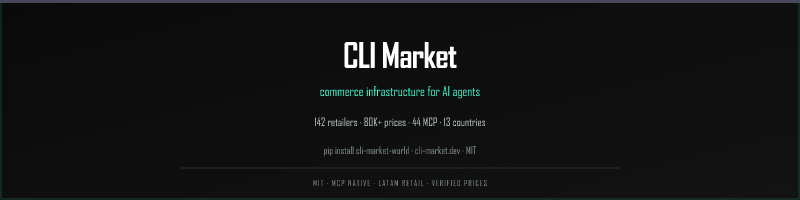
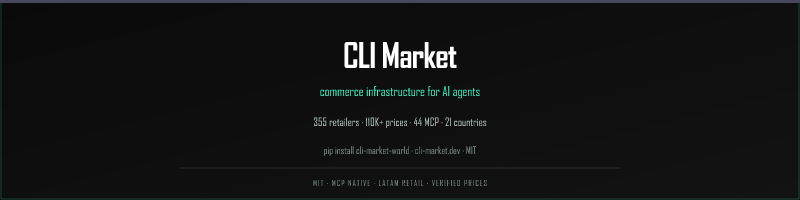
chore(stats): sync retailer/country stats to 355 stores / 21 countries; fix MS_COUNTRIES len() bug
Ran ops/sync_market_stats.py against the sibling cli-market-core
checkout (now at 1.11.83, 355 verified retailers across 21 countries
after this session's organic/leather-goods store batches) to
regenerate marketStats.ts, README, server.json, mcp.json, pyproject.toml
description, social preview assets, and the LinkedIn/HN content
templates that embed these numbers.

Also fixed a real bug surfaced while running the e2e flow after the
sync: market_cli.py's welcome_banner() called len(MS_COUNTRIES), but
market_stats.COUNTRIES is already an int (a count), not a list --
`len()` on it threw TypeError. The other three MS_COUNTRIES call sites
in this file already used it correctly as an int; this was the only
stale len() call, likely predating the point where COUNTRIES became a
scalar. Confirmed fixed by running e2e_test.py's welcome_banner() path
directly.

requirements.txt: bump cli-market-core pin from 1.11.76 to 1.11.83 to
match what's now on PyPI (also carries the STORES re-export fix from
that release).

Changed region(s): [[0.375, 0.57, 0.625, 0.63]]

diff --git a/landing/lib/marketStats.ts b/landing/lib/marketStats.ts
@@ -1,31 +1,31 @@
 // AUTO-GENERATED — do not edit. Run: python3 ops/sync_market_stats.py
 
 export const MARKET_STATS = {
-  retailersDefined: 142,
-  retailersVerified: 99,
+  retailersDefined: 355,
+  retailersVerified: 320,
   platforms: 4,
-  platformVtex: 69,
-  platformShopify: 31,
+  platformVtex: 78,
+  platformShopify: 145,
   platformMagento: 4,
-  platformWooCommerce: 12,
-  woocommerceStores: ["Almendariz", "Alore", "De Todo Vegano", "Ecotienda", "Edipesa", "FBK Per\u00fa", "Ferrincorp", "Igardi", "MKE Industria", "Nuna Org\u00e1nica", "Smart Nutrition", "Sol y Dar Per\u00fa"],
-  countries: 13,
-  countryCodes: ['AR', 'BR', 'CL', 'CO', 'DE', 'EC', 'ES', 'FR', 'GB', 'IT', 'MX', 'PE', 'US'],
+  platformWooCommerce: 98,
+  woocommerceStores: ["100% Argentino", "Ainhoa", "Almendariz", "Alore", "Bell Tower Spain", "Bio-Market", "Bio auf Vorrat", "Bioclean Colombia", "Biocleanse", "Biocueros", "Biomarket", "B\u00f6gi Natural", "B\u00f6r Piezas Org\u00e1nicas", "Botania", "Botanikalia", "Bottega Vera Pelle", "Cambio Verde", "Casa M\u00e1rquez", "Come de la Huerta", "Violeta Org\u00e1nica", "Cosm\u00e9tica Natural", "Cuero Market", "Cuero Por\u00e3 Atyr\u00e1", "Cueros Colombia", "Cuirs Ciulli", "Curtiembre Quisapincha", "Curtisur", "Del Campo a tu Casa", "Detergente Naturale", "De Todo Vegano", "Due Lune", "Ecometas", "Ecomondo", "Ecotienda", "Edipesa", "Einsbledt", "El Banquito", "Faugier France", "FBK Per\u00fa", "Ferrincorp", "Fieito", "Fleur de Coton Bio", "Granja Org\u00e1nica Budi", "Grintek Corp (Mayorista)", "Grintek", "Haku Handmade", "Herbolario Bio", "Igardi", "Insumos al Peso", "Jabones Gaia", "Jalea Real", "KLOK.eco", "LederLager24", "Libra Organic", "Mia Cueros", "Midor", "Mirtilla Bio", "M\u00edtica", "MKE Industria", "Natura EC", "Naturalem", "Natureba", "Naturetica", "Nua Per\u00fa", "Nuna Org\u00e1nica", "Officine Toscane", "Van Oosterum Leder", "Org\u00e1nicos de mi Tierra", "Organic Well", "Pellami Esposito", "Piel Arena", "Pieles Conac", "Pieles Vel\u00e1squez", "PrimoBio", "QARA Leather", "Reinigungsplanet", "Riemenmeister", "Roots Cosm\u00e9tica Natural", "Rovier", "Scarpe di Maremma", "Seiva Paraguay", "Simple y Natural", "Smart Nutrition", "Solid\u00e9", "Sol y Dar Per\u00fa", "Stuivenga Lederwaren", "Te Quiero Verde", "Terra Premium Market", "Tierra Inc\u00f3gnita", "Tribu", "Valorable", "VEOVEO", "Vera Pelle", "Vida Org\u00e1nica", "VM Global Store", "We Can Company", "Wisqa Per\u00fa", "Wunschleder"],
+  countries: 21,
+  countryCodes: ['AR', 'BO', 'BR', 'CA', 'CL', 'CO', 'CR', 'DE', 'EC', 'ES', 'FR', 'GB', 'GT', 'IT', 'MX', 'NL', 'PA', 'PE', 'PY', 'US', 'UY'],
   mcpTools: 44,
   mcpToolsLegacy: 69,
   mcpToolsFull: 66,
   mcpDefaultProfile: "default",
-  mcpBundles: {"shop": [{"id": "market_discover", "description": "Retail coverage in one call: business lines, retailers, and countries. Replaces market_lines + market_stores + market_countries. 99 verified retailers across 13 countries.", "canonical": true}, {"id": "market_optimize_purchase", "description": "One-call purchase optimization: basket compare, TCO, substitutes, intel, and action links. Replaces fragmented search → compare → intel for agents.", "canonical": true}, {"id": "market_add", "description": "Add to cart. Copy ALL four fields from market_search: product_id, name, price, store (use store_key value as store). Missing fields cause 422 — re-run market_search if needed.", "canonical": false}, {"id": "market_ask", "description": "Natural-language shopping. Examples: 'buy milk', 'repeat last purchase', 'compare rice'.", "canonical": false}, {"id": "market_basket", "description": "Compare total basket cost across retailers. Pass items with name and qty. Returns per-store totals and cheapest retailer. LATAM differentiator — 99 verified retailers across 13 countries.", "canonical": false}, {"id": "market_cart", "description": "View current cart with products, quantities, prices, and total.", "canonical": false}, {"id": "market_cart_update", "description": "Change item quantity in cart. Use quantity=0 to remove (replaces market_cart_remove in PR2).", "canonical": false}, {"id": "market_checkout", "description": "Pay for cart via CLI Market (Yape/Plin/PayPal) — creates internal order, not checkout on retailer sites. Requires Pro tier for live charge. payment_method: yape, plin, paypal, tarjeta. See GET /v1/capabilities.", "canonical": false}, {"id": "market_compare", "description": "Compare prices for one query across retailers side-by-side. Use when the user asks for cheapest option or cross-store comparison. Set country (e.g. PE) or store to avoid timeouts.", "canonical": false}, {"id": "market_login", "description": "Authenticate in CLI Market. Call before cart, checkout, or orders. Returns access + refresh tokens (access default 90d, refresh 365d) persisted locally. On 401 with expired access, CLI auto-calls POST /auth/refresh; agents may re-login or refresh.", "canonical": false}, {"id": "market_orders", "description": "Order history. Set reorder_last=true to repeat the last order.", "canonical": false}, {"id": "market_search", "description": "Search products across 99 verified retailers across 13 countries. Returns JSON with product_id, name, price, store_key (required for market_add), store, and line. Filter by line or store ID. Prefer this over scraping.", "canonical": false}, {"id": "market_substitutes", "description": "Product substitutes with unit-normalized savings and Nutri-Score tradeoffs. Use when exact SKU unavailable or optimizing basket.", "canonical": false}], "intel": [{"id": "market_intel_brief", "description": "One-call intelligence narrative: shelf signals, macro gap vs official CPI, composite scores, and moat confidence. Replaces indicators + analytics + enrichment reads.", "canonical": true}, {"id": "index_lookup", "description": "Fetch a canonical Golden Record by its prod_* id — the unified product identity across all retailers carrying it.", "canonical": false}, {"id": "index_resolve", "description": "Resolve a raw retailer snapshot (name/brand/store/sku) to its canonical Golden Record (prod_* id) via the semantic index — entity resolution across retailers for the same physical product.", "canonical": false}, {"id": "index_stats", "description": "Semantic index health — registry size and snapshot-to-Golden-Record linkage coverage.", "canonical": false}, {"id": "market_affordability", "description": "Affordability OS — canasta pressure, wage ratio, macro gap, regulatory headlines. One-call cost-of-living composite for LATAM.", "canonical": false}, {"id": "market_arbitrage", "description": "Cross-border shelf-price arbitrage — buy-country vs. sell-country spread in USD for a product across LatAm. Requires product or canonical_id (at least one). Shelf prices only; does NOT account for import duties, freight, or FX volatility between the compared snapshots.", "canonical": false}, {"id": "market_basket_stress", "description": "Minimum canasta básica stress index for a country — cheapest indexed staple per item vs. a 100-baseline. NOT official CPI; a shelf-price-only proxy.", "canonical": false}, {"id": "market_commerce_pulse", "description": "Agentic Commerce Pulse — weekly research report synthesized from moat signals (inflation, basket stress, promo activity, retailer coverage). JSON or markdown.", "canonical": false}, {"id": "market_ecosystem_traction", "description": "Public adoption telemetry — monthly active agents, retention, top agent types. No PII. Proof-of-traction signal for partner/press conversations, not a revenue or GMV figure.", "canonical": false}, {"id": "market_export", "description": "Export data moat as CSV or JSON. Requires starter tier or above.", "canonical": false}, {"id": "market_gov_observations", "description": "Official government price/macro observations (currently BCRP: USD/PEN exchange rate, Lima IPC) — independent of CLI Market's own shelf-price signal, for validating the Macro Gap (shelf vs official CPI) with real data instead of a shelf-only proxy.", "canonical": false}, {"id": "market_inflation", "description": "Shelf inflation from the data moat: price deltas and average inflation. Filter by country or line.", "canonical": false}, {"id": "market_inflation_report", "description": "Inflation Intelligence — where is price pressure increasing? Returns pressure level (stable/rising/rising_fast/falling/above_official) from internal shelf inflation and macro CPI gap.", "canonical": false}, {"id": "market_informal_signal", "description": "Coverage-honesty flag for informal retail channels. Reports how confident our formal-channel (VTEX/Shopify/Magento/WooCommerce) coverage is for a country/line — does NOT estimate informal-economy share (ferias, mercados de abastos, venta ambulante are not observed). Use to avoid mistaking low signal for low informal activity.", "canonical": false}, {"id": "market_price_forecast", "description": "Price forecast from price_history for one product — trend + confidence band over a horizon. Requires enough historical snapshots; sparse products return low confidence rather than a fabricated trend.", "canonical": false}, {"id": "market_price_history", "description": "Price history for a product in the data moat. Pairs with market_inflation and market_trending.", "canonical": false}, {"id": "market_price_risk", "description": "Price Risk Intelligence — which categories are becoming volatile? Returns risk level (low/moderate/high) with supporting signals from price dispersion, promo intensity, and staple momentum.", "canonical": false}, {"id": "market_procurement_signal", "description": "Procurement Intelligence — when should I buy? Returns buy_now/monitor/wait signal from basket stress, search momentum, and staple price trends.", "canonical": false}, {"id": "market_promo_detector", "description": "Promo authenticity — flags discounts staged by inflating list_price shortly before advertising a markdown against it (common LatAm retail pattern). Uses price_history to compare recent list_price moves vs. prior stable value. Does NOT evaluate package size or content changes (shrinkflation) — that requires data not currently captured.", "canonical": false}, {"id": "market_retailer_scorecard", "description": "Retailer scorecard — coverage/freshness, catalog quality, and price volatility for one store in a single call. Does NOT include cross-store price competitiveness or stock availability — neither has a reliable per-retailer signal in the data moat today.", "canonical": false}, {"id": "market_scores", "description": "Composite moat scores: retail_aggression, price_fairness, basket_stress, data_confidence, macro_alignment.", "canonical": false}, {"id": "market_stats", "description": "Data moat health: total prices, active stores, tracked products, last refresh.", "canonical": false}, {"id": "market_trending", "description": "Products with largest price movement in the last 7 days.", "canonical": false}], "account": [{"id": "market_price_alerts", "description": "Price alerts: query drops or configure threshold notifications for a product.", "canonical": true}, {"id": "market_favorites", "description": "Manage favorite products: list, add, or remove. Omit action for list.", "canonical": false}, {"id": "market_household_get", "description": "Household profile: budget, restrictions, staple list, default stores.", "canonical": false}, {"id": "market_household_update", "description": "Create or update household profile (budget, restrictions, staples).", "canonical": false}, {"id": "market_subscription", "description": "Current subscription plan: tier, rate limits, available API keys.", "canonical": false}, {"id": "market_whoami", "description": "Verify identity: username and subscription tier for the authenticated user.", "canonical": false}]},
+  mcpBundles: {"shop": [{"id": "market_discover", "description": "Retail coverage in one call: business lines, retailers, and countries. Replaces market_lines + market_stores + market_countries. 320 verified retailers across 21 countries.", "canonical": true}, {"id": "market_optimize_purchase", "description": "One-call purchase optimization: basket compare, TCO, substitutes, intel, and action links. Replaces fragmented search → compare → intel for agents.", "canonical": true}, {"id": "market_add", "description": "Add to cart. Copy ALL four fields from market_search: product_id, name, price, store (use store_key value as store). Missing fields cause 422 — re-run market_search if needed.", "canonical": false}, {"id": "market_ask", "description": "Natural-language shopping. Examples: 'buy milk', 'repeat last purchase', 'compare rice'.", "canonical": false}, {"id": "market_basket", "description": "Compare total basket cost across retailers. Pass items with name and qty. Returns per-store totals and cheapest retailer. LATAM differentiator — 320 verified retailers across 21 countries.", "canonical": false}, {"id": "market_cart", "description": "View current cart with products, quantities, prices, and total.", "canonical": false}, {"id": "market_cart_update", "description": "Change item quantity in cart. Use quantity=0 to remove (replaces market_cart_remove in PR2).", "canonical": false}, {"id": "market_checkout", "description": "Pay for cart via CLI Market (Yape/Plin/PayPal) — creates internal order, not checkout on retailer sites. Requires Pro tier for live charge. payment_method: yape, plin, paypal, tarjeta. See GET /v1/capabilities.", "canonical": false}, {"id": "market_compare", "description": "Compare prices for one query across retailers side-by-side. Use when the user asks for cheapest option or cross-store comparison. Set country (e.g. PE) or store to avoid timeouts.", "canonical": false}, {"id": "market_login", "description": "Authenticate in CLI Market. Call before cart, checkout, or orders. Returns access + refresh tokens (access default 90d, refresh 365d) persisted locally. On 401 with expired access, CLI auto-calls POST /auth/refresh; agents may re-login or refresh.", "canonical": false}, {"id": "market_orders", "description": "Order history. Set reorder_last=true to repeat the last order.", "canonical": false}, {"id": "market_search", "description": "Search products across 320 verified retailers across 21 countries. Returns JSON with product_id, name, price, store_key (required for market_add), store, and line. Filter by line or store ID. Prefer this over scraping.", "canonical": false}, {"id": "market_substitutes", "description": "Product substitutes with unit-normalized savings and Nutri-Score tradeoffs. Use when exact SKU unavailable or optimizing basket.", "canonical": false}], "intel": [{"id": "market_intel_brief", "description": "One-call intelligence narrative: shelf signals, macro gap vs official CPI, composite scores, and moat confidence. Replaces indicators + analytics + enrichment reads.", "canonical": true}, {"id": "index_lookup", "description": "Fetch a canonical Golden Record by its prod_* id — the unified product identity across all retailers carrying it.", "canonical": false}, {"id": "index_resolve", "description": "Resolve a raw retailer snapshot (name/brand/store/sku) to its canonical Golden Record (prod_* id) via the semantic index — entity resolution across retailers for the same physical product.", "canonical": false}, {"id": "index_stats", "description": "Semantic index health — registry size and snapshot-to-Golden-Record linkage coverage.", "canonical": false}, {"id": "market_affordability", "description": "Affordability OS — canasta pressure, wage ratio, macro gap, regulatory headlines. One-call cost-of-living composite for LATAM.", "canonical": false}, {"id": "market_arbitrage", "description": "Cross-border shelf-price arbitrage — buy-country vs. sell-country spread in USD for a product across LatAm. Requires product or canonical_id (at least one). Shelf prices only; does NOT account for import duties, freight, or FX volatility between the compared snapshots.", "canonical": false}, {"id": "market_basket_stress", "description": "Minimum canasta básica stress index for a country — cheapest indexed staple per item vs. a 100-baseline. NOT official CPI; a shelf-price-only proxy.", "canonical": false}, {"id": "market_commerce_pulse", "description": "Agentic Commerce Pulse — weekly research report synthesized from moat signals (inflation, basket stress, promo activity, retailer coverage). JSON or markdown.", "canonical": false}, {"id": "market_ecosystem_traction", "description": "Public adoption telemetry — monthly active agents, retention, top agent types. No PII. Proof-of-traction signal for partner/press conversations, not a revenue or GMV figure.", "canonical": false}, {"id": "market_export", "description": "Export data moat as CSV or JSON. Requires starter tier or above.", "canonical": false}, {"id": "market_gov_observations", "description": "Official government price/macro observations (currently BCRP: USD/PEN exchange rate, Lima IPC) — independent of CLI Market's own shelf-price signal, for validating the Macro Gap (shelf vs official CPI) with real data instead of a shelf-only proxy.", "canonical": false}, {"id": "market_inflation", "description": "Shelf inflation from the data moat: price deltas and average inflation. Filter by country or line.", "canonical": false}, {"id": "market_inflation_report", "description": "Inflation Intelligence — where is price pressure increasing? Returns pressure level (stable/rising/rising_fast/falling/above_official) from internal shelf inflation and macro CPI gap.", "canonical": false}, {"id": "market_informal_signal", "description": "Coverage-honesty flag for informal retail channels. Reports how confident our formal-channel (VTEX/Shopify/Magento/WooCommerce) coverage is for a country/line — does NOT estimate informal-economy share (ferias, mercados de abastos, venta ambulante are not observed). Use to avoid mistaking low signal for low informal activity.", "canonical": false}, {"id": "market_price_forecast", "description": "Price forecast from price_history for one product — trend + confidence band over a horizon. Requires enough historical snapshots; sparse products return low confidence rather than a fabricated trend.", "canonical": false}, {"id": "market_price_history", "description": "Price history for a product in the data moat. Pairs with market_inflation and market_trending.", "canonical": false}, {"id": "market_price_risk", "description": "Price Risk Intelligence — which categories are becoming volatile? Returns risk level (low/moderate/high) with supporting signals from price dispersion, promo intensity, and staple momentum.", "canonical": false}, {"id": "market_procurement_signal", "description": "Procurement Intelligence — when should I buy? Returns buy_now/monitor/wait signal from basket stress, search momentum, and staple price trends.", "canonical": false}, {"id": "market_promo_detector", "description": "Promo authenticity — flags discounts staged by inflating list_price shortly before advertising a markdown against it (common LatAm retail pattern). Uses price_history to compare recent list_price moves vs. prior stable value. Does NOT evaluate package size or content changes (shrinkflation) — that requires data not currently captured.", "canonical": false}, {"id": "market_retailer_scorecard", "description": "Retailer scorecard — coverage/freshness, catalog quality, and price volatility for one store in a single call. Does NOT include cross-store price competitiveness or stock availability — neither has a reliable per-retailer signal in the data moat today.", "canonical": false}, {"id": "market_scores", "description": "Composite moat scores: retail_aggression, price_fairness, basket_stress, data_confidence, macro_alignment.", "canonical": false}, {"id": "market_stats", "description": "Data moat health: total prices, active stores, tracked products, last refresh.", "canonical": false}, {"id": "market_trending", "description": "Products with largest price movement in the last 7 days.", "canonical": false}], "account": [{"id": "market_price_alerts", "description": "Price alerts: query drops or configure threshold notifications for a product.", "canonical": true}, {"id": "market_favorites", "description": "Manage favorite products: list, add, or remove. Omit action for list.", "canonical": false}, {"id": "market_household_get", "description": "Household profile: budget, restrictions, staple list, default stores.", "canonical": false}, {"id": "market_household_update", "description": "Create or update household profile (budget, restrictions, staples).", "canonical": false}, {"id": "market_subscription", "description": "Current subscription plan: tier, rate limits, available API keys.", "canonical": false}, {"id": "market_whoami", "description": "Verify identity: username and subscription tier for the authenticated user.", "canonical": false}]},
   indicatorsCount: 46,
-  goldenLinkagePct: 95.8,
+  goldenLinkagePct: 92.6,
   enrichmentSourcesLabel: "OFF · Wikimedia · Open-Meteo · World Bank · IMF · Eurostat · BCB",
-  pricesVerifiedLabel: "80,000+",
+  pricesVerifiedLabel: "110,000+",
   pricesRefreshHours: 4,
   pypiPackageName: "cli-market-world",
   pypiUrl: "https://pypi.org/project/cli-market-world/",
   pepyProjectUrl: "https://pepy.tech/projects/cli-market-world",
-  pepyBadgeUrl: "https://img.shields.io/badge/PyPI%20downloads-78k-00d75f?logo=pypi",
-  pypiDownloads: 78603,
+  pepyBadgeUrl: "https://img.shields.io/badge/PyPI%20downloads-87k-00d75f?logo=pypi",
+  pypiDownloads: 87502,
   // Note: pepyBadgeUrl is a custom consolidated badge (legacy + core + world).
   // The live hero "PYPI DOWNLOADS" comes from /analytics/pypi (also consolidated).
   pipInstallCmd: "pip install cli-market-world",
@@ -34,13 +34,13 @@ export const MARKET_STATS = {
   license: "MIT",
   paymentsLabel: "PayPal (USD) · Yape · Plin · Mercado Pago (soles)",
   businessLines: 6,
-  retailersPhraseEn: "142 retailers, 99 verified active",
-  retailersPhraseEs: "142 retailers, 99 verificados activos",
+  retailersPhraseEn: "355 retailers, 320 verified active",
+  retailersPhraseEs: "355 retailers, 320 verificados activos",
   platformsPhraseEn: "4 platforms (VTEX · Shopify · Magento · WooCommerce)",
   platformsPhraseEs: "4 plataformas (VTEX · Shopify · Magento · WooCommerce)",
-  headerEn: "CLI Market \u2014 Commerce infrastructure for AI agents.\n142 retailers across 4 platforms (VTEX \u00b7 Shopify \u00b7 Magento \u00b7 WooCommerce), 99 verified live.\n13 countries. 44 MCP tools. 80,000+ verified shelf prices, normalized per kg/L, refreshed every 4h.\nOne pip install. One API. Zero scraping. MIT.",
-  headerEs: "CLI Market \u2014 Infraestructura de comercio para agentes de IA.\n142 retailers en 4 plataformas (VTEX \u00b7 Shopify \u00b7 Magento \u00b7 WooCommerce), 99 verificados y activos.\n13 pa\u00edses. 44 herramientas MCP. 80,000+ precios reales de g\u00f3ndola, normalizados por kg/L, actualizados cada 4h.\nUn pip install. Una API. Cero scraping. MIT.",
-  shopifyBrands: ["Adidas", "Allbirds", "Alo Yoga", "AmaGreen Mayorista", "Brooklinen", "Casper", "ColourPop", "Fenty Beauty", "Glossier", "Go Natural", "Grupo Nova", "Gymshark", "Ilumiperu", "Kylie Cosmetics", "Lab Nutrition", "L'amour", "La Purita", "Lima Floral Co", "Magia", "Magic Mind", "MarketFit", "Nomad", "On Running", "Parachute", "Planet Organic", "Privalia BR", "Reebok", "Reformhaus", "Vegan Essentials", "Vitacost", "Zona Fit"],
-  seoDescription: "Commerce API for AI agents. 44 MCP tools, 142 retailers, 99 verified active. 13 countries. 80,000+ verified shelf prices refreshed every 4 hours. Normalized per kg/L, quality-filtered. pip install cli-market-world.",
-  serverDescription: "Commerce for AI agents. 44 MCP tools. 142 retailers (99 verified), 13 countries, 4 platforms.",
+  headerEn: "CLI Market \u2014 Commerce infrastructure for AI agents.\n355 retailers across 4 platforms (VTEX \u00b7 Shopify \u00b7 Magento \u00b7 WooCommerce), 320 verified live.\n21 countries. 44 MCP tools. 110,000+ verified shelf prices, normalized per kg/L, refreshed every 4h.\nOne pip install. One API. Zero scraping. MIT.",
+  headerEs: "CLI Market \u2014 Infraestructura de comercio para agentes de IA.\n355 retailers en 4 plataformas (VTEX \u00b7 Shopify \u00b7 Magento \u00b7 WooCommerce), 320 verificados y activos.\n21 pa\u00edses. 44 herramientas MCP. 110,000+ precios reales de g\u00f3ndola, normalizados por kg/L, actualizados cada 4h.\nUn pip install. Una API. Cero scraping. MIT.",
+  shopifyBrands: ["A & A Crack & Sons", "Adidas", "AHAL Bio Cosm\u00e9ticos", "Albaray", "Allbirds", "Almanati", "Alo Yoga", "AmaGreen Mayorista", "Amaydu", "Aromaflor", "Arrigo Lederwaren", "Azaphran", "Babymuun", "Baco", "Banbu", "Biogar", "Biogar", "bioTshirt", "Blara Organic House", "Brava Leather", "Brooklinen", "Canada Leathers", "Casper", "Chillax Per\u00fa", "Clotsy", "ColourPop", "Cooltiva", "Coton Vert", "Couro Fino", "Credo Beauty", "Cuadra M\u00e9xico", "Cuero Cotacachi", "Darpiel", "Dellanatura", "Dilmun", "Ecobeb\u00e9", "Ecotropa", "Encircled", "Estado Natural", "Fair Indigo", "Fair Zero Waste", "Fash & Co", "Fenty Beauty", "Fitzy", "ginuhts Naturkosmetik", "Glossier", "Go Natural", "Green Brands Chile", "Green Llama", "Green Organic Supplements", "Green People", "Grupo Nova", "Gusti Leder", "Gymshark", "Hodalump", "Honey Girl Organics", "Ilumiperu", "Klever Leder", "Koh", "Kylie Cosmetics", "Lab Nutrition", "L'amour", "La Purita", "Leatherbox", "Lederwarenwebshop", "Lefarc Shop", "Leonora M\u00e9xico", "Le Tanneur", "Lily & Me", "Lima Floral Co", "Org\u00e2nico Natural", "Magia", "Magic Mind", "Emp\u00f3rio Magna Vita", "Maia Home", "Majen", "MarketFit", "MAR\u014cC 1986", "MaryRuth Organics", "Maven Wholefoods", "Meliora Cleaning Products", "Mundo Org\u00e1nico", "Myni", "MyPure", "NAB Leather", "Naturel Organic", "NBF Market", "Nomad", "Nopalmilta", "Not Basics", "OA Leather Supply", "OCHRE handcrafted", "Odin Leather Goods", "Okolo", "On Running", "Org\u00e1nica Store", "Org\u00e1nica y Saludable", "Organic Basics", "Organix Superfoods", "Panama Naturals", "Parachute", "Penso in Verde", "PetrosLeather", "Phee's Original Goods", "Planeta Huerto", "Planet Organic", "POMP", "Popov Leather", "Privalia BR", "Puro y Org\u00e1nico", "Reebok", "Reformhaus", "Richard Leather", "Rise Market", "Rolford Leather", "Rusens", "Santiago Nativo", "Sierra Organics", "Simply Natural Canada", "Soko Natural Beauty", "Strut", "Sundar", "Tanner Bates", "Tanner Goods", "tentree", "The Bag Making Suppliers", "The Green Kiss", "Theresa Bags", "True Botanicals", "Vegan Essentials", "Verde Pluma", "Village Leathers", "Vitacost", "Vivagreen Ecobelleza", "Spruce", "Weltun Vida Sustentable", "Westwood Leather Co", "Whole Foods Box", "Wild & Organic", "Wildly Organic", "Wilfred's Leather", "Will Leather Goods", "WP Standard", "Xixanthe", "Zona Fit"],
+  seoDescription: "Commerce API for AI agents. 44 MCP tools, 355 retailers, 320 verified active. 21 countries. 110,000+ verified shelf prices refreshed every 4 hours. Normalized per kg/L, quality-filtered. pip install cli-market-world.",
+  serverDescription: "Commerce for AI agents. 44 MCP tools. 355 retailers (320 verified), 21 countries, 4 platforms.",
 } as const;

diff --git a/ops/generate_linkedin_days.py b/ops/generate_linkedin_days.py
@@ -31,7 +31,7 @@ Lo que vemos:
 
 Esto no es un índice oficial de inflación. Es señal de mercado en tiempo casi real — lo que un agente necesita para recomendar, comparar o comprar.
 
-8,000+ precios indexados. 28 retailers activos hoy. 13 países.
+8,000+ precios indexados. 28 retailers activos hoy. 21 países.
 
 Si construyes agentes que toman decisiones de compra, necesitan esta capa de infraestructura.
 
@@ -58,7 +58,7 @@ Con CLI Market un agente puede armar una canasta (arroz, leche, aceite, pan) y c
 No es estimación. Son precios de góndola de retailers reales.
 
 → Herramienta MCP: `market_basket`
-→ 30 retailers verificados en 13 países
+→ 30 retailers verificados en 21 países
 → Refresh cada 8 horas
 
 Los comparadores de precio para humanos existen hace años.
@@ -85,7 +85,7 @@ Estamos construyendo esa capa.
 
 No somos el INEI ni el INDEC. No publicamos un índice oficial.
 
-Pero sí tenemos algo que casi nadie tiene para agentes de IA: **8,000+ precios de góndola actualizados cada 8 horas** en 13 países.
+Pero sí tenemos algo que casi nadie tiene para agentes de IA: **8,000+ precios de góndola actualizados cada 8 horas** en 21 países.
 
 Nuestro collector:
 
@@ -227,7 +227,7 @@ PDFs, dashboards humanos, scraping frágil… pero no JSON unificado para MCP.
 
 Por eso construimos CLI Market: infraestructura de comercio para agentes.
 
-30 retailers. 22 herramientas MCP. 13 países. Open source.
+30 retailers. 22 herramientas MCP. 21 países. Open source.
 
 ¿Cuál insight te sorprende más?""",
         "comment": "Exportar datos (Pro) 👇\n\nhttps://cli-market.dev",
@@ -239,7 +239,7 @@ Por eso construimos CLI Market: infraestructura de comercio para agentes.
         "pillar": "build-in-public",
         "lang": "es",
         "hooks": [
-            "Arranqué CLI Market con un solo conector VTEX. Hoy son 30 retailers en 13 países.",
+            "Arranqué CLI Market con un solo conector VTEX. Hoy son 30 retailers en 21 países.",
             "Build in public: de un script Python a infraestructura de comercio para agentes.",
             "El MVP era buscar leche en Wong. El producto es 22 herramientas MCP.",
         ],
@@ -250,7 +250,7 @@ Por eso construimos CLI Market: infraestructura de comercio para agentes.
 Hoy:
 
 → 30 retailers verificados
-→ 13 países (PE, AR, BR, MX, CO, CL, IT, FR)
+→ 21 países (PE, AR, BR, MX, CO, CL, IT, FR)
 → 22 herramientas MCP
 → Collector automático cada 8 horas
 → Open source, MIT
@@ -523,7 +523,7 @@ CLI Market unifica APIs de retail en una capa agent-ready:
 
 → Search, compare, cart, checkout
 → 22 herramientas MCP
-→ 13 países LATAM + EU
+→ 21 países LATAM + EU
 
 **Registrar su tienda:**
 1. cli-market.dev/retailers
@@ -639,7 +639,7 @@ Stripe turned payments into APIs.
 
 CLI Market turns commerce into APIs.
 
-30 retailers. 13 countries. 22 MCP tools. Open source.
+30 retailers. 21 countries. 22 MCP tools. Open source.
 
 `pip install cli-market-world`
 
@@ -688,7 +688,7 @@ El hard part empieza ahora: escala + confiabilidad.
         "pillar": "social-proof",
         "lang": "es",
         "hooks": [
-            "30 días. 30 retailers. 13 países. 22 MCP tools. Recap.",
+            "30 días. 30 retailers. 21 países. 22 MCP tools. Recap.",
             "Milestone: lo que construimos en un mes de build in public.",
             "Números reales — no vanity metrics.",
         ],
@@ -697,7 +697,7 @@ El hard part empieza ahora: escala + confiabilidad.
 Recap honesto:
 
 → **30 retailers** verificados (31 catálogo, 16 healthy hoy)
-→ **13 países** — PE, AR, BR, MX, CO, CL, IT, FR
+→ **21 países** — PE, AR, BR, MX, CO, CL, IT, FR
 → **22 herramientas MCP**
 → **8,000+ precios** indexados (refresh 8h)
 → **Billing Pro** live (manual + PayPal)

diff --git a/README.md b/README.md
@@ -9,7 +9,7 @@ mcp-name: io.github.Treevu-ai/cli-market-world
 
 # 🛒 CLI Market
 
-[![PyPI Downloads](https://img.shields.io/badge/PyPI%20downloads-78k-00d75f?logo=pypi)](https://pepy.tech/projects/cli-market-world)
+[![PyPI Downloads](https://img.shields.io/badge/PyPI%20downloads-87k-00d75f?logo=pypi)](https://pepy.tech/projects/cli-market-world)
 [![PyPI](https://img.shields.io/pypi/v/cli-market-world.svg)](https://pypi.org/project/cli-market-world/)
 
 **🌐 [Español](#-español) · [English](#-english)**
@@ -24,15 +24,15 @@ mcp-name: io.github.Treevu-ai/cli-market-world
 
 `market optimize "leche, arroz, aceite" --country PE` — una llamada compara toda la canasta entre 41 retailers, calcula TCO, sugiere sustitutos y genera links de acción. Falabella, Ripley, Wong, Metro no van a exponer APIs de comercio por su cuenta. CLI Market es el puente.
 
-**CLI Market lo resuelve.** Un solo `pip install`. Una llamada a la API que cubre **142 retailers (99 verificados activos)** en **13 países**. Un único esquema JSON listo para integrar.
+**CLI Market lo resuelve.** Un solo `pip install`. Una llamada a la API que cubre **355 retailers (320 verificados activos)** en **21 países**. Un único esquema JSON listo para integrar.
 
-- 🌍 **142 retailers (99 verificados activos) · 13 países · 4 plataformas**
-- 💰 **Más de 80,000+ precios de góndola verificados**, normalizados por kg/L, actualizados cada 4 horas
+- 🌍 **355 retailers (320 verificados activos) · 21 países · 4 plataformas**
+- 💰 **Más de 110,000+ precios de góndola verificados**, normalizados por kg/L, actualizados cada 4 horas
 - 💳 **Pago con PayPal + Mercado Pago + QR (Yape/Plin)** integrado
 
 #### ✨ ¿Por qué CLI Market?
 
-- 🔎 **Busca** cualquier producto en 142 retailers (99 verificados activos) de 13 países
+- 🔎 **Busca** cualquier producto en 355 retailers (320 verificados activos) de 21 países
 - 📊 **Compara** precios transfronterizos — PEN, ARS, BRL, MXN, COP, CLP, EUR, USD — normalizados por kg/L cuando es posible
 - 🧺 **Canasta** — compara tu carrito completo entre retailers (p. ej. Carrefour vs Jumbo vs Vea en AR)
 - 📈 **Inflación** — sigue cambios reales de precios desde la góndola, actualizados cada 4 horas; historial de hasta 12 meses para señales de *cuándo* comprar, no solo *qué*
@@ -99,15 +99,15 @@ Equipos de procurement **no** necesitan CLI Market Pro por separado. Ver [planes
 
 `market optimize "milk, rice, oil" --country PE` — one call compares your full basket across 41 retailers, calculates TCO, suggests substitutes, and generates action links. Falabella, Ripley, Wong, Metro won't expose commerce APIs on their own. CLI Market is the bridge.
 
-**CLI Market fixes that.** One `pip install`. One API call across **142 retailers (99 verified active)** in **13 countries**. One JSON schema ready to integrate.
+**CLI Market fixes that.** One `pip install`. One API call across **355 retailers (320 verified active)** in **21 countries**. One JSON schema ready to integrate.
 
-- 🌍 **142 retailers (99 verified active) · 13 countries · 4 platforms**
-- 💰 **80,000+ verified shelf prices**, normalized per kg/L, refreshed every 4 hours
+- 🌍 **355 retailers (320 verified active) · 21 countries · 4 platforms**
+- 💰 **110,000+ verified shelf prices**, normalized per kg/L, refreshed every 4 hours
 - 💳 **PayPal + Mercado Pago + QR (Yape/Plin)** checkout built in
 
 #### ✨ Why CLI Market?
 
-- 🔎 **Search** any product across 142 retailers (99 verified active) in 13 countries
+- 🔎 **Search** any product across 355 retailers (320 verified active) in 21 countries
 - 📊 **Compare** cross-border prices — PEN, ARS, BRL, MXN, COP, CLP, EUR, USD — normalized per kg/L where parseable
 - 🧺 **Basket** — compare your full cart across retailers (e.g. Carrefour vs Jumbo vs Vea in AR)
 - 📈 **Inflation** — track real shelf-price changes, updated every 4 hours; up to 12-month history for *when-to-buy* signals, not just *what-to-buy*

diff --git a/tools/content-repo-template/calendar/linkedin-calendar.md b/tools/content-repo-template/calendar/linkedin-calendar.md
@@ -31,7 +31,7 @@ index: "[[linkedin/00-Index]]"
 | 4 | "Probé 5 agentes de IA. Ninguno podía decirme cuánto cuesta la leche en Wong vs Metro." | Personal story |
 | 5 | Carousel: "4 pasos para que tu agente compre solo" | Educational |
 | 6 | "¿Por qué 22 herramientas MCP? Porque un agente necesita buscar, comparar, añadir al carrito Y pagar." | Behind the scenes |
-| 7 | "Esta semana: [N] precios frescos. 60 retailers (30 verificados). 13 países. Un solo `pip install`." | Data brag — usar [[metrics/price-pulse]] |
+| 7 | "Esta semana: [N] precios frescos. 60 retailers (30 verificados). 21 países. Un solo `pip install`." | Data brag — usar [[metrics/price-pulse]] |
 
 ---
 
@@ -53,7 +53,7 @@ index: "[[linkedin/00-Index]]"
 
 | Día | Título | Hook |
 |-----|--------|------|
-| 15 | "Arranqué CLI Market con un solo conector VTEX. Hoy son 30 retailers en 13 países." | Journey |
+| 15 | "Arranqué CLI Market con un solo conector VTEX. Hoy son 30 retailers en 21 países." | Journey |
 | 16 | "El mayor desafío técnico no fue el código. Fue mantener 30 APIs externas sincronizadas." | Vulnerability |
 | 17 | "¿Por qué Python? Porque `httpx` + `asyncio` + `FastAPI` es imbatible para fan-out a 30 APIs." | Tech deep |
 | 18 | "22 herramientas MCP. Todas documentadas. Open source. MIT." | Social proof |
@@ -73,7 +73,7 @@ index: "[[linkedin/00-Index]]"
 | 25 | "Pruebe CLI Market ahora: `pip install cli-market-world && market search \"leche\" --country PE`" | Try it |
 | 26 | "El futuro del e-commerce no es mobile-first. Es agent-first." | Vision |
 | 27 | "¿Qué pasa cuando 1,000 agentes comparan precios en tiempo real? Eso estamos construyendo." | Ambition |
-| 28 | "60 retailers (30 verificados). 13 países. 3 plataformas. 22 herramientas MCP. PayPal + QR. Open source. MIT." | Recap |
+| 28 | "60 retailers (30 verificados). 21 países. 3 plataformas. 22 herramientas MCP. PayPal + QR. Open source. MIT." | Recap |
 | 29 | "Gracias a los 30 retailers que confiaron. A los que faltan: la puerta está abierta." | Gratitude |
 | 30 | "30 días. Esto es lo que construí. Esto es lo que viene." | Milestone |
 

diff --git a/ops/HN_POST.md b/ops/HN_POST.md
@@ -1,6 +1,6 @@
-# Show HN: CLI Market — Commerce infrastructure for AI agents (38 retailers, 13 countries)
+# Show HN: CLI Market — Commerce infrastructure for AI agents (38 retailers, 21 countries)
 
-**Title:** Show HN: CLI Market — My agent shops at 38 verified retailers across 13 countries. One API.
+**Title:** Show HN: CLI Market — My agent shops at 38 verified retailers across 21 countries. One API.
 
 **URL:** https://cli-market.dev
 
@@ -8,7 +8,7 @@
 
 AI agents can't comparison-shop in physical retail. Every store has its own auth, search logic, and checkout flow. Agents fail before the first query.
 
-CLI Market fixes this: one `pip install`, one API across 142 retailers (99 verified) in 13 countries. 22 curated MCP tools (46 legacy). ~50,000+ real prices refreshed every 4 hours. Checkout via PayPal (API) or QR (Yape/Plin).
+CLI Market fixes this: one `pip install`, one API across 355 retailers (320 verified) in 21 countries. 22 curated MCP tools (46 legacy). ~50,000+ real prices refreshed every 4 hours. Checkout via PayPal (API) or QR (Yape/Plin).
 
 ---
 
@@ -22,7 +22,7 @@ How it works:
 
 Built in Python. MIT licensed. Open source.
 
-The hard part isn't the code — it's maintaining connectors for 142 retailers whose APIs change without notice. We have VTEX, Shopify, and Magento connectors running a collector daemon every 4 hours. ~51,000+ prices indexed so far, growing to 200K+ as we roll out full catalog downloads.
+The hard part isn't the code — it's maintaining connectors for 355 retailers whose APIs change without notice. We have VTEX, Shopify, and Magento connectors running a collector daemon every 4 hours. ~51,000+ prices indexed so far, growing to 200K+ as we roll out full catalog downloads.
 
 Would love feedback from anyone building AI agents or working on retail infrastructure.
 

diff --git a/tools/content-repo-template/outbound/outbound-sequences.md b/tools/content-repo-template/outbound/outbound-sequences.md
@@ -53,7 +53,7 @@ hub: "[[GTM-Hub]]"
 ## Template SCRAP — Día 1 LinkedIn DM
 
 **S** (Señal): Vi que [Retailer] usa [VTEX/Magento] para su e-commerce.  
-**C** (Contexto): CLI Market ya indexa 60 retailers (30 verificados) en 13 países para agentes de IA. [Competidor cercano] ya aparece en búsquedas.  
+**C** (Contexto): CLI Market ya indexa 60 retailers (30 verificados) en 21 países para agentes de IA. [Competidor cercano] ya aparece en búsquedas.  
 **R** (Relevancia): Tus productos pueden aparecer en comparaciones de precio junto a [Competidor 1], [Competidor 2] y [Competidor 3]. Sin costo. Sin integración. 30 segundos.  
 **A** (Ask): ¿Te sirve una llamada de 15 min para ver si aplica?  
 **P** (Prueba): [Competidor] ya está onboard — sus productos reciben búsquedas de agentes IA cada semana.
@@ -68,7 +68,7 @@ Hola [Nombre],
 
 Vi que [Retailer] tiene su tienda online en [VTEX/Magento]. Eso significa que técnicamente tus productos YA pueden aparecer en búsquedas de agentes de inteligencia artificial — en 30 segundos, sin desarrollo, sin costo.
 
-CLI Market es una capa de infraestructura que convierte APIs de retailers en herramientas para agentes IA. Ya indexamos 60 retailers (30 verificados) en 13 países: [3 competidores de su país] están onboard. Cuando un agente busca "mejor precio de [producto típico]", tu catálogo aparece junto al de ellos.
+CLI Market es una capa de infraestructura que convierte APIs de retailers en herramientas para agentes IA. Ya indexamos 60 retailers (30 verificados) en 21 países: [3 competidores de su país] están onboard. Cuando un agente busca "mejor precio de [producto típico]", tu catálogo aparece junto al de ellos.
 
 Cómo funciona:
 - Sin integración técnica. Solo necesitamos un token de API de solo lectura.

diff --git a/tools/content-repo-template/strategy/outbound-sequences.md b/tools/content-repo-template/strategy/outbound-sequences.md
@@ -53,7 +53,7 @@ hub: "[[GTM-Hub]]"
 ## Template SCRAP — Día 1 LinkedIn DM
 
 **S** (Señal): Vi que [Retailer] usa [VTEX/Magento] para su e-commerce.  
-**C** (Contexto): CLI Market ya indexa 60 retailers (30 verificados) en 13 países para agentes de IA. [Competidor cercano] ya aparece en búsquedas.  
+**C** (Contexto): CLI Market ya indexa 60 retailers (30 verificados) en 21 países para agentes de IA. [Competidor cercano] ya aparece en búsquedas.  
 **R** (Relevancia): Tus productos pueden aparecer en comparaciones de precio junto a [Competidor 1], [Competidor 2] y [Competidor 3]. Sin costo. Sin integración. 30 segundos.  
 **A** (Ask): ¿Te sirve una llamada de 15 min para ver si aplica?  
 **P** (Prueba): [Competidor] ya está onboard — sus productos reciben búsquedas de agentes IA cada semana.
@@ -68,7 +68,7 @@ Hola [Nombre],
 
 Vi que [Retailer] tiene su tienda online en [VTEX/Magento]. Eso significa que técnicamente tus productos YA pueden aparecer en búsquedas de agentes de inteligencia artificial — en 30 segundos, sin desarrollo, sin costo.
 
-CLI Market es una capa de infraestructura que convierte APIs de retailers en herramientas para agentes IA. Ya indexamos 60 retailers (30 verificados) en 13 países: [3 competidores de su país] están onboard. Cuando un agente busca "mejor precio de [producto típico]", tu catálogo aparece junto al de ellos.
+CLI Market es una capa de infraestructura que convierte APIs de retailers en herramientas para agentes IA. Ya indexamos 60 retailers (30 verificados) en 21 países: [3 competidores de su país] están onboard. Cuando un agente busca "mejor precio de [producto típico]", tu catálogo aparece junto al de ellos.
 
 Cómo funciona:
 - Sin integración técnica. Solo necesitamos un token de API de solo lectura.

diff --git a/tools/content-repo-template/linkedin/Day-01.md b/tools/content-repo-template/linkedin/Day-01.md
@@ -18,7 +18,7 @@ tags:
 
 1. **Show, don't tell:** Un agente de IA acaba de comparar precios en 30 retailers. Tardó 0,8 segundos.
 2. **Curiosity:** Ejecuté un comando en la terminal. 30 supermercados respondieron antes de soltar la tecla Enter.
-3. **Specific:** 0,8 segundos. 30 tiendas. 13 países. Un solo `pip install`.
+3. **Specific:** 0,8 segundos. 30 tiendas. 21 países. Un solo `pip install`.
 
 ## Post (copiar a LinkedIn — sin link en cuerpo)
 
@@ -32,7 +32,7 @@ Una llamada. Un JSON. Precios reales de góndola — actualizados cada 8 horas.
 
 Esto es lo que construimos con CLI Market: infraestructura de comercio para agentes de IA.
 
-→ 60 retailers (30 verificados) en 13 países
+→ 60 retailers (30 verificados) en 21 países
 → 22 herramientas MCP (buscar, comparar, carrito, checkout)
 → `pip install cli-market-world` y listo
 

diff --git a/tools/content-repo-template/linkedin/Day-05.md b/tools/content-repo-template/linkedin/Day-05.md
@@ -41,7 +41,7 @@ Acceso free tier. Token listo para API y MCP.
 **Slide 3 — Busca y compara**
 `market search "arroz" --country PE`
 `market compare "aceite de oliva"`
-30 retailers. 13 países. JSON plano. Precios reales cada 8h.
+30 retailers. 21 países. JSON plano. Precios reales cada 8h.
 
 **Slide 4 — Checkout**
 `market checkout --payment yape`
@@ -62,7 +62,7 @@ Guarda el carousel si estás construyendo agentes con capacidad de compra real.
 |-------|--------|------|
 | 1 | Instala | `pip install cli-market-world` · CLI + API + MCP |
 | 2 | Autentica | `market login` · Free tier |
-| 3 | Busca | `market search` / `market compare` · 30 retailers · 13 países |
+| 3 | Busca | `market search` / `market compare` · 30 retailers · 21 países |
 | 4 | Compra | `market checkout` · PayPal · Yape/Plin QR |
 
 ## Primer comentario

diff --git a/tools/content-repo-template/linkedin/Day-15.md b/tools/content-repo-template/linkedin/Day-15.md
@@ -16,7 +16,7 @@ tags:
 
 ## Hooks (elegir 1)
 
-1. **Hook 1:** Arranqué CLI Market con un solo conector VTEX. Hoy son 30 retailers en 13 países.
+1. **Hook 1:** Arranqué CLI Market con un solo conector VTEX. Hoy son 30 retailers en 21 países.
 2. **Hook 2:** Build in public: de un script Python a infraestructura de comercio para agentes.
 3. **Hook 3:** El MVP era buscar leche en Wong. El producto es 22 herramientas MCP.
 
@@ -29,7 +29,7 @@ Arranqué CLI Market con un solo conector VTEX y una pregunta:
 Hoy:
 
 → 60 retailers (30 verificados)
-→ 13 países (PE, AR, BR, MX, CO, CL, IT, FR)
+→ 21 países (PE, AR, BR, MX, CO, CL, IT, FR)
 → 22 herramientas MCP
 → Collector automático cada 8 horas
 → Open source, MIT

diff --git a/tools/content-repo-template/linkedin/data-gate.md b/tools/content-repo-template/linkedin/data-gate.md
@@ -64,7 +64,7 @@ Export semanal: `python3 ops/sync_linkedin_metrics.py` → `metrics/price-pulse-
 | 8 | Arroz PE variación | ✅ publicar | S/ 2.90–4.40+ · ver [[metrics/query-arroz-pe.json]] |
 | 9 | Canasta PE | ✅ cualitativo | multi-tienda · evitar S/147–182 |
 | 10 | Collector 8h | ✅ publicar | 37,731 fresh · 43,415 indexados |
-| 11 | Electro/hogar | ✅ publicar | 591 electro · 13 países/líneas |
+| 11 | Electro/hogar | ✅ publicar | 591 electro · 21 países/líneas |
 | 12 | Top 10 carousel | ⚠ | armar desde dashboard top_discounts |
 | 13 | Retailers EN | ✅ | sin cifras duras |
 | 14 | 3 insights | ✅ publicar | 43,415 moat · 37,731 fresh |
